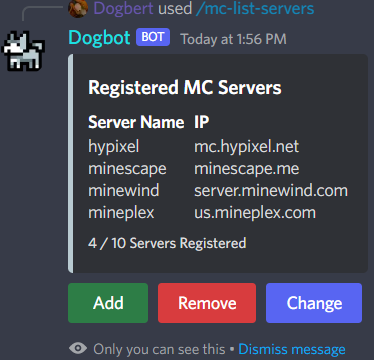
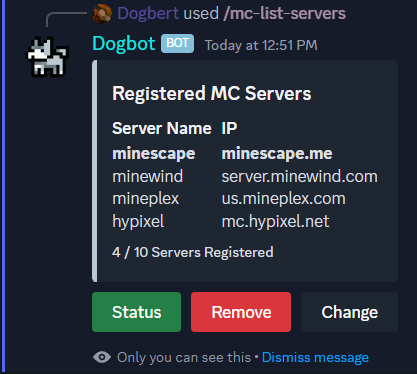
update README.md and mc commands

diff --git a/src/commands/minecraft/mc-list-servers.ts b/src/commands/minecraft/mc-list-servers.ts
@@ -108,13 +108,13 @@ export const mcListServers: SlashCommand = {
 
         collector.on('collect', async i => {
             switch (i.customId) {
-                case 'ListRemove':
+                case 'listRemove':
                     await client.commands.get('mc-delete-server').execute(client, interaction, guildData);
                     break;
-                case 'ListChange':
+                case 'listChange':
                     await client.commands.get('mc-select-server').execute(client, interaction, guildData);
                     break;
-                case 'ListStatus':
+                case 'listStatus':
                     i.deferUpdate()
 
                     if (gettingStatus) break;
@@ -126,11 +126,11 @@ export const mcListServers: SlashCommand = {
                     row = new ActionRowBuilder<ButtonBuilder>()
                         .addComponents(
                             new ButtonBuilder()
-                                .setCustomId('ListRemove')
+                                .setCustomId('listRemove')
                                 .setLabel('Remove')
                                 .setStyle(ButtonStyle.Danger),
                             new ButtonBuilder()
-                                .setCustomId('ListChange')
+                                .setCustomId('listChange')
                                 .setLabel('Change')
                                 .setStyle(ButtonStyle.Primary),
                         );
@@ -146,7 +146,7 @@ export const mcListServers: SlashCommand = {
             removeTerminationListener(terminateBound)
             if (collected.size === 0) {
                 await interaction.editReply({components: []})
-            } else if (['ListStatus', 'ListRemove', 'ListChange'].includes(collected.first().customId)) {
+            } else if (['listStatus', 'listRemove', 'listChange'].includes(collected.first().customId)) {
                 await interaction.editReply({embeds: [embed], components: []})
             }
         });

diff --git a/src/commands/minecraft/mc-status.ts b/src/commands/minecraft/mc-status.ts
@@ -70,7 +70,7 @@ export const mcStatus: SlashCommand = {
 
         let embed
         try {
-            const javaResponse = await status(ip, port, {timeout: 3000})
+            const javaResponse = await status(ip, port, {timeout: 5000})
 
             embed = new EmbedBuilder()
                 .setTitle(name)
@@ -100,7 +100,7 @@ export const mcStatus: SlashCommand = {
         } catch {
             try {
                 log.warn('java response failed, checking bedrock...')
-                let bedrockResponse = await statusBedrock(ip, port, {timeout: 3000})
+                let bedrockResponse = await statusBedrock(ip, port, {timeout: 5000})
 
                 embed = new EmbedBuilder()
                     .setTitle(name)

diff --git a/src/dependencies/helpers/mcHelpers/checkListServerStatus.ts b/src/dependencies/helpers/mcHelpers/checkListServerStatus.ts
@@ -7,10 +7,10 @@ import {status, statusBedrock} from "minecraft-server-util";
  */
 export const checkListServerStatus = async (MCServerData): Promise<string[]> => {
     const statusPromises = MCServerData.serverList.map(MCServer => {
-        return status(MCServer.ip, MCServer.port, {timeout: 2000})
+        return status(MCServer.ip, MCServer.port, {timeout: 5000})
             .then(() => '*Online*')
             .catch(() =>
-                statusBedrock(MCServer.ip, MCServer.port, {timeout: 2000})
+                statusBedrock(MCServer.ip, MCServer.port, {timeout: 5000})
                     .then(() => '*Online*')
                     .catch(() => '*Offline*'));
     });

diff --git a/src/dependencies/helpers/mcHelpers/checkServerStatus.ts b/src/dependencies/helpers/mcHelpers/checkServerStatus.ts
@@ -4,11 +4,11 @@ import log from "../../constants/logger";
 
 export async function checkServerStatus(server: MinecraftServer): Promise<boolean> {
     try {
-        await status(server.ip, server.port);
+        await status(server.ip, server.port, {timeout: 5000});
         return true
     } catch {
         try {
-            await statusBedrock(server.ip, server.port);
+            await statusBedrock(server.ip, server.port, {timeout: 5000});
             return true
         } catch {
             log.error('Invalid server / server offline')

diff --git a/README.md b/README.md
@@ -22,18 +22,18 @@
 ## Image Gallery
 
 **Minecraft Commands**  
-<img src="/src/dependencies/images/mc-server-status" width="25%"></img>
-<img src="src/dependencies/images/mc-list-servers" width="25%"></img>
-<img src="./src/dependencies/images/mc-list-servers-status" width="28%"></img>
+<img src="src/dependencies/images/mc-status.png" width="25%"></img>
+<img src="src/dependencies/images/mc-list-servers.png" width="30%"></img>
+<img src="src/dependencies/images/mc-list-servers-status.png" width="31%"></img>
 
 **Fetch Commands**  
-<img src="https://github.com/MykelMatar/Dogbot/blob/master/src/dependencies/images/enlist-users.png" width="30%"></img>  
-<img src="https://github.com/MykelMatar/Dogbot/blob/Discord.js14/src/dependencies/images/enlist-stats.png" width="20%"></img>
-<img src="https://github.com/MykelMatar/Dogbot/blob/Discord.js14/src/dependencies/images/enlist-leaderboard.png" width="33%"></img>
+<img src="src/dependencies/images/fetch-users.png" width="30%"></img>  
+<img src="src/dependencies/images/fetch-stats.png" width="35%"></img>
+<img src="src/dependencies/images/enlist-leaderboard.png" width="33%"></img>
 
 **Other Commands**  
-<img src="https://github.com/MykelMatar/Dogbot/blob/Discord.js14/src/dependencies/images/get-stats-valorant.png" width="50%"></img>   
-<img src="https://github.com/MykelMatar/Dogbot/blob/Discord.js14/src/dependencies/images/server-stats.png" width="60%"></img>
+<img src="src/dependencies/images/get-stats-valorant.png" width="50%"></img>   
+<img src="src/dependencies/images/server-stats.png" width="60%"></img>
 
 ## All Commands
 
